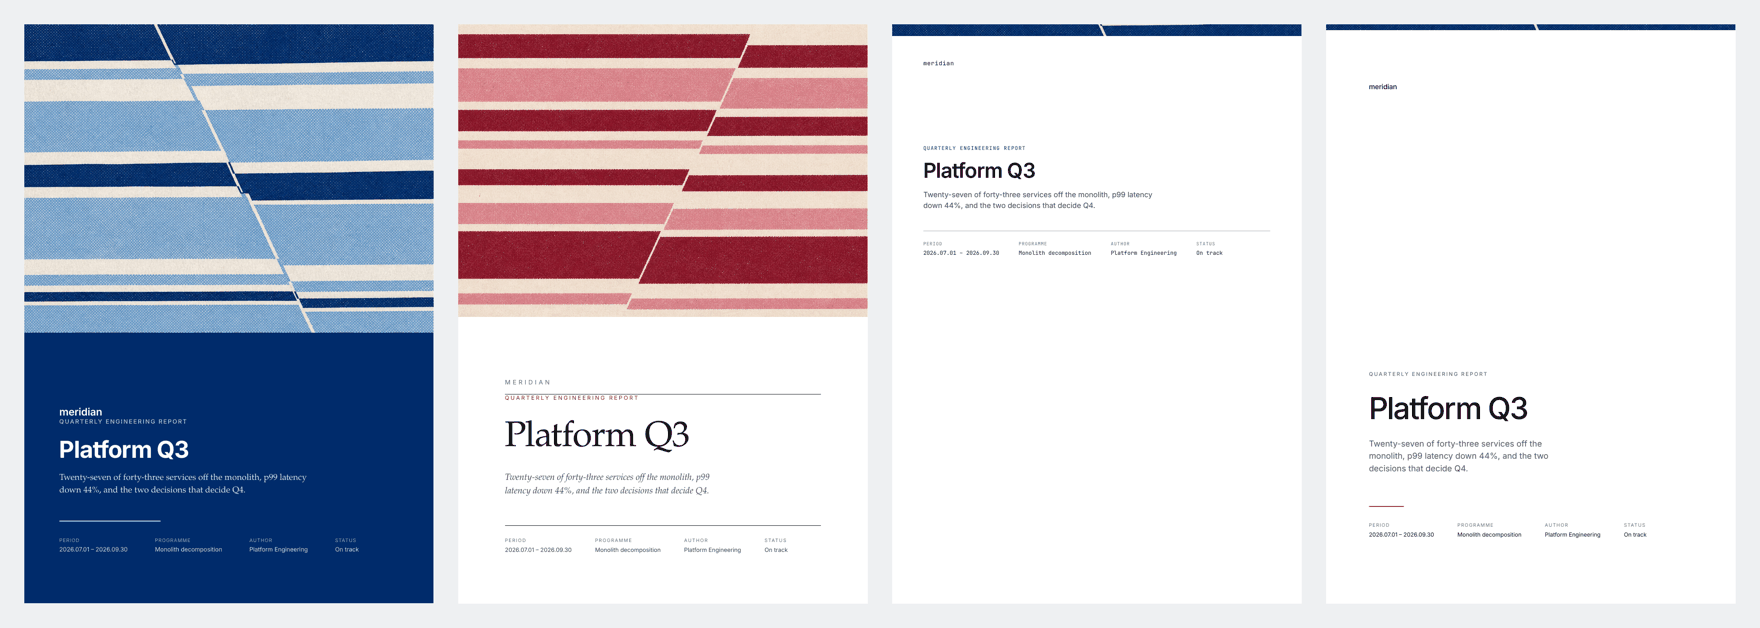
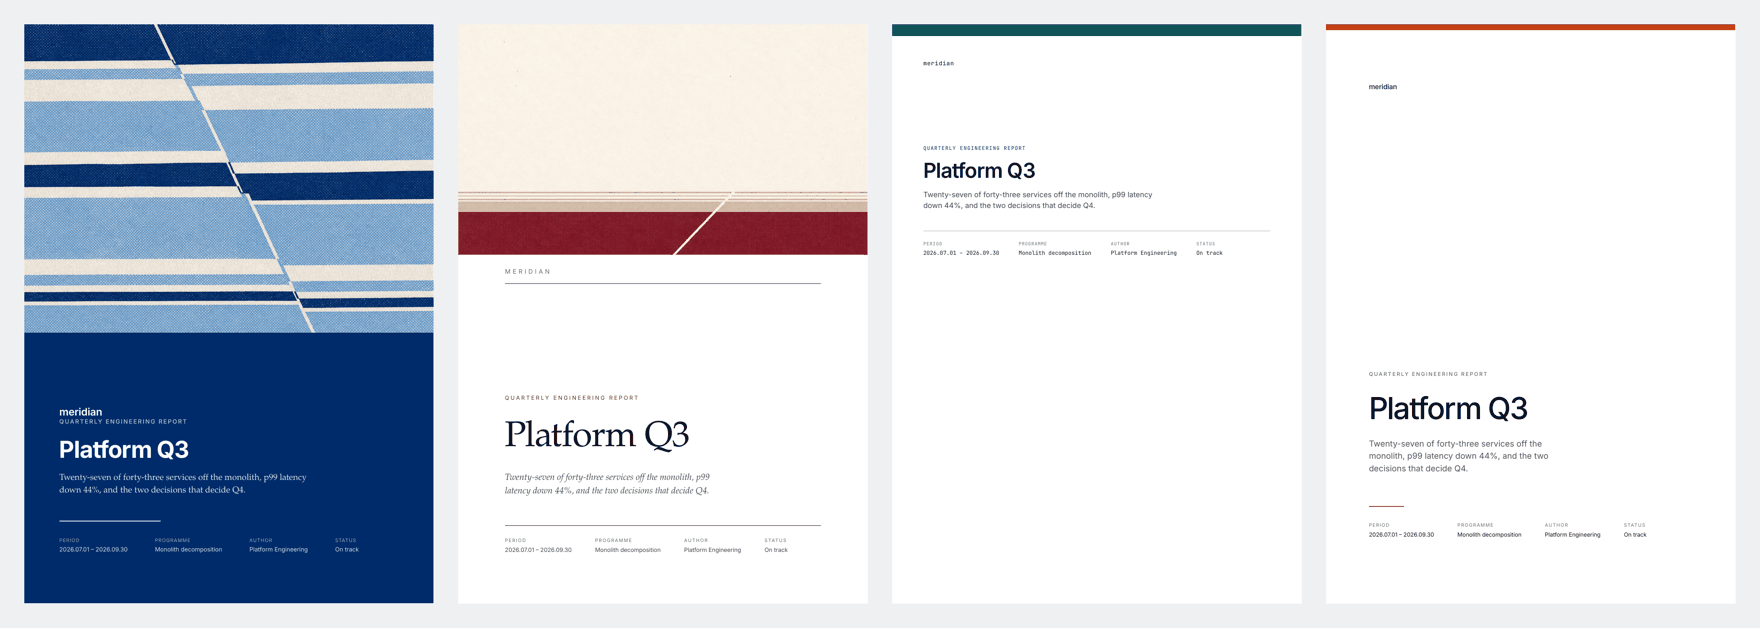
fix(cover): editorial was carrying report's cover, not its own
Two faults, one visible and one that had shipped in the gallery.

The plate contradicted the theme. `editorial`'s own header says it is built on
scale contrast and white space, with not a single filled surface — and it had a
dense 150mm block of candy stripe on the front. The new plate is a mark on
paper: one broad stratum low in the frame, hairlines above it, two thirds bare.
Band drops 150mm → 118mm. Dusty rose is gone; it went muddy against oxblood.

The masthead was floating 57mm below the plate edge, which read as a seam
rather than as space. Cause: `margin-bottom: auto` on `.cover-brand`.
WeasyPrint's flex does not absorb free space through block-direction auto
margins, so the rule sank into the bottom group and left dead white under the
image. Measured it at 174.8mm when the content box starts at 118mm, then pinned
the masthead to `top: var(--cover-plate-h)` instead — `.cover` is already
`position: relative` in base, and the rule now lands exactly where the ink
stops. The white space moves below the label, where it is doing work.

And the gallery was wrong. `technical` and `minimal` were rendered with the
report plate still in the markup, so their 6mm and 3mm bands cropped a navy
image — two themes that take no imagery, illustrated with imagery, in the strip
whose whole point is that they don't. They render with no plate now: teal rule
and orange rule, as the CSS always intended.

The four finally read as one system — dense plate, sparse plate, 6mm rule, 3mm
[…]

Changed region(s): [[0.25, 0.0303, 1.0, 0.5143], [0.2812, 0.6051, 0.3125, 0.6354]]

diff --git a/src/folio/assets/themes/editorial.css b/src/folio/assets/themes/editorial.css
@@ -29,17 +29,30 @@
 
 /* ── Cover: typographic, no ornament ────────────────────── */
 
+/* The plate is smaller here than in `report`, and that is the theme talking:
+   editorial is built on scale contrast and white space, with no filled
+   surfaces, so a half-page block of ink contradicts it. The image is a mark on
+   paper, and the masthead rule sits directly under its edge — a gap between
+   the two reads as a seam rather than as breathing room. The white space is
+   spent below the label, where it is doing work. */
 .cover {
-  --cover-plate-h: 150mm;
+  --cover-plate-h: 118mm;
   background: var(--paper); color: var(--ink);
   justify-content: flex-end;
 }
 .cover::before { background: var(--brand-tint); }
+/* Pinned to the plate's bottom edge, not floated there with `margin-bottom:
+   auto` — WeasyPrint's flex does not absorb free space through block-direction
+   auto margins, so the masthead sank to the bottom group and left ~57mm of
+   dead white under the image. Absolute positioning against `.cover` (which
+   base.css already makes `position: relative`) puts the rule exactly where the
+   ink stops, every time. */
 .cover-brand {
-  position: static; font: 400 9pt var(--font-ui);
+  position: absolute;
+  top: var(--cover-plate-h); left: var(--page-margin-x); right: var(--page-margin-x);
+  font: 400 9pt var(--font-ui);
   letter-spacing: 0.34em; text-transform: uppercase; color: var(--ink-mute);
-  padding: 9mm 0 4mm; border-bottom: 1px solid var(--ink);
-  margin-bottom: auto; width: 100%;
+  padding: 7mm 0 4mm; border-bottom: 1px solid var(--ink);
 }
 .cover-kicker {
   font: 400 8pt var(--font-ui); letter-spacing: 0.26em; text-transform: uppercase;
